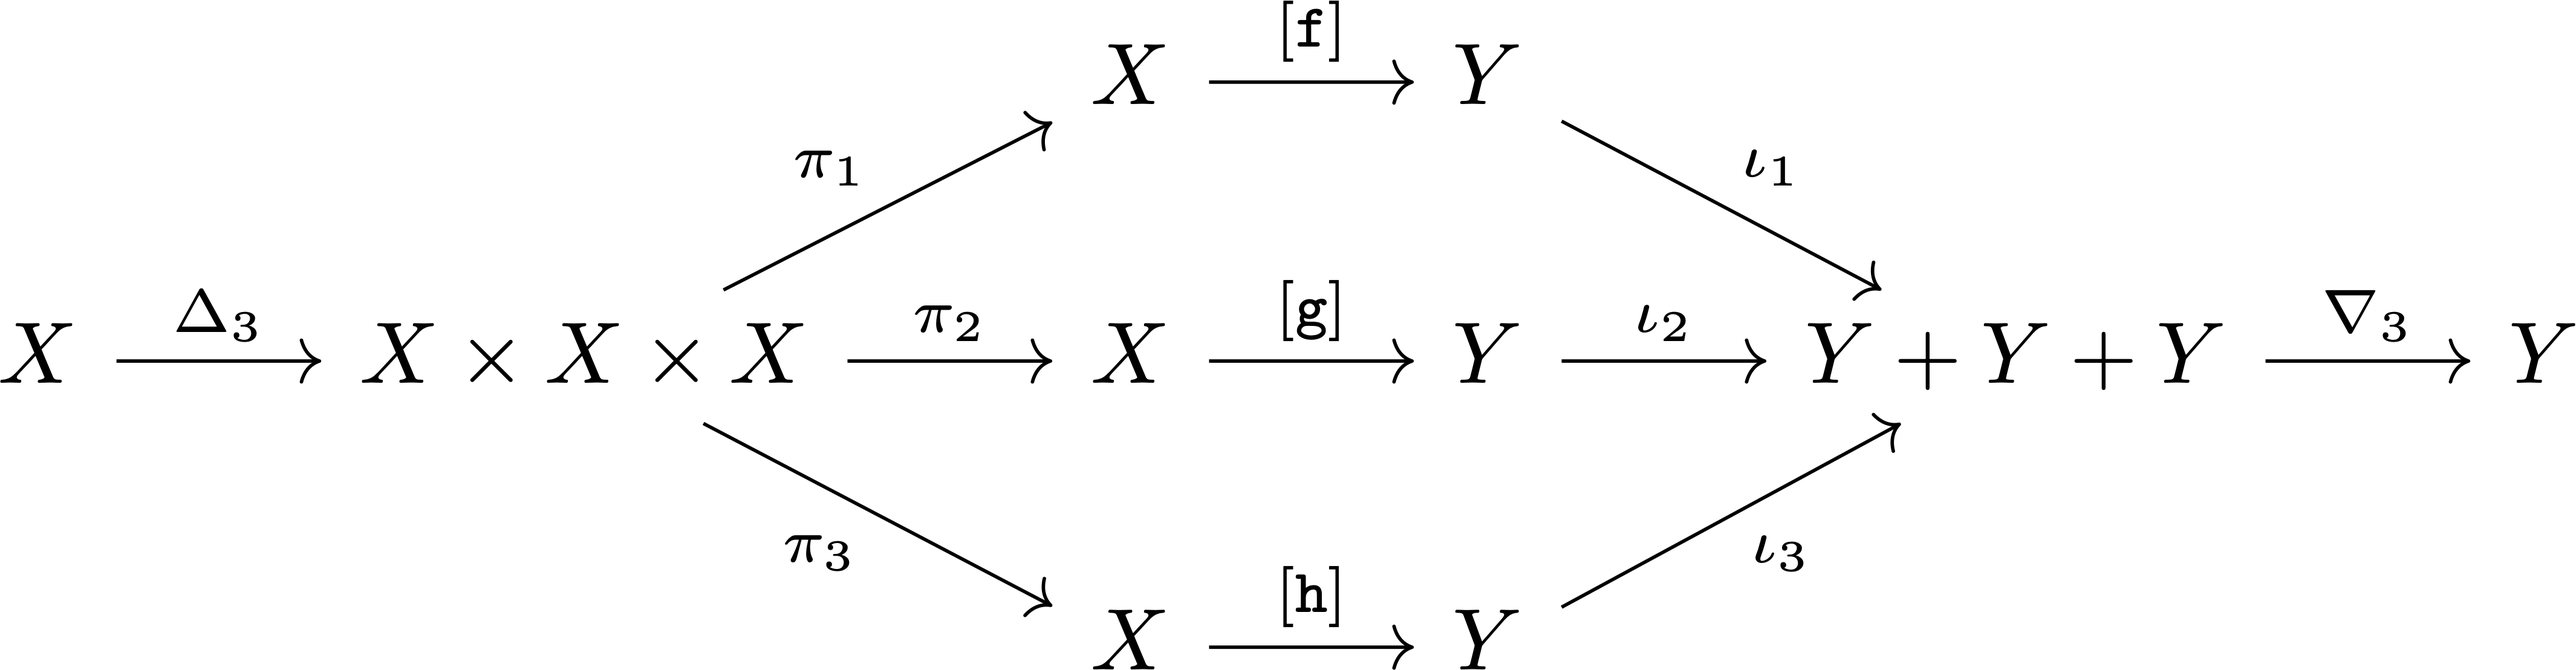
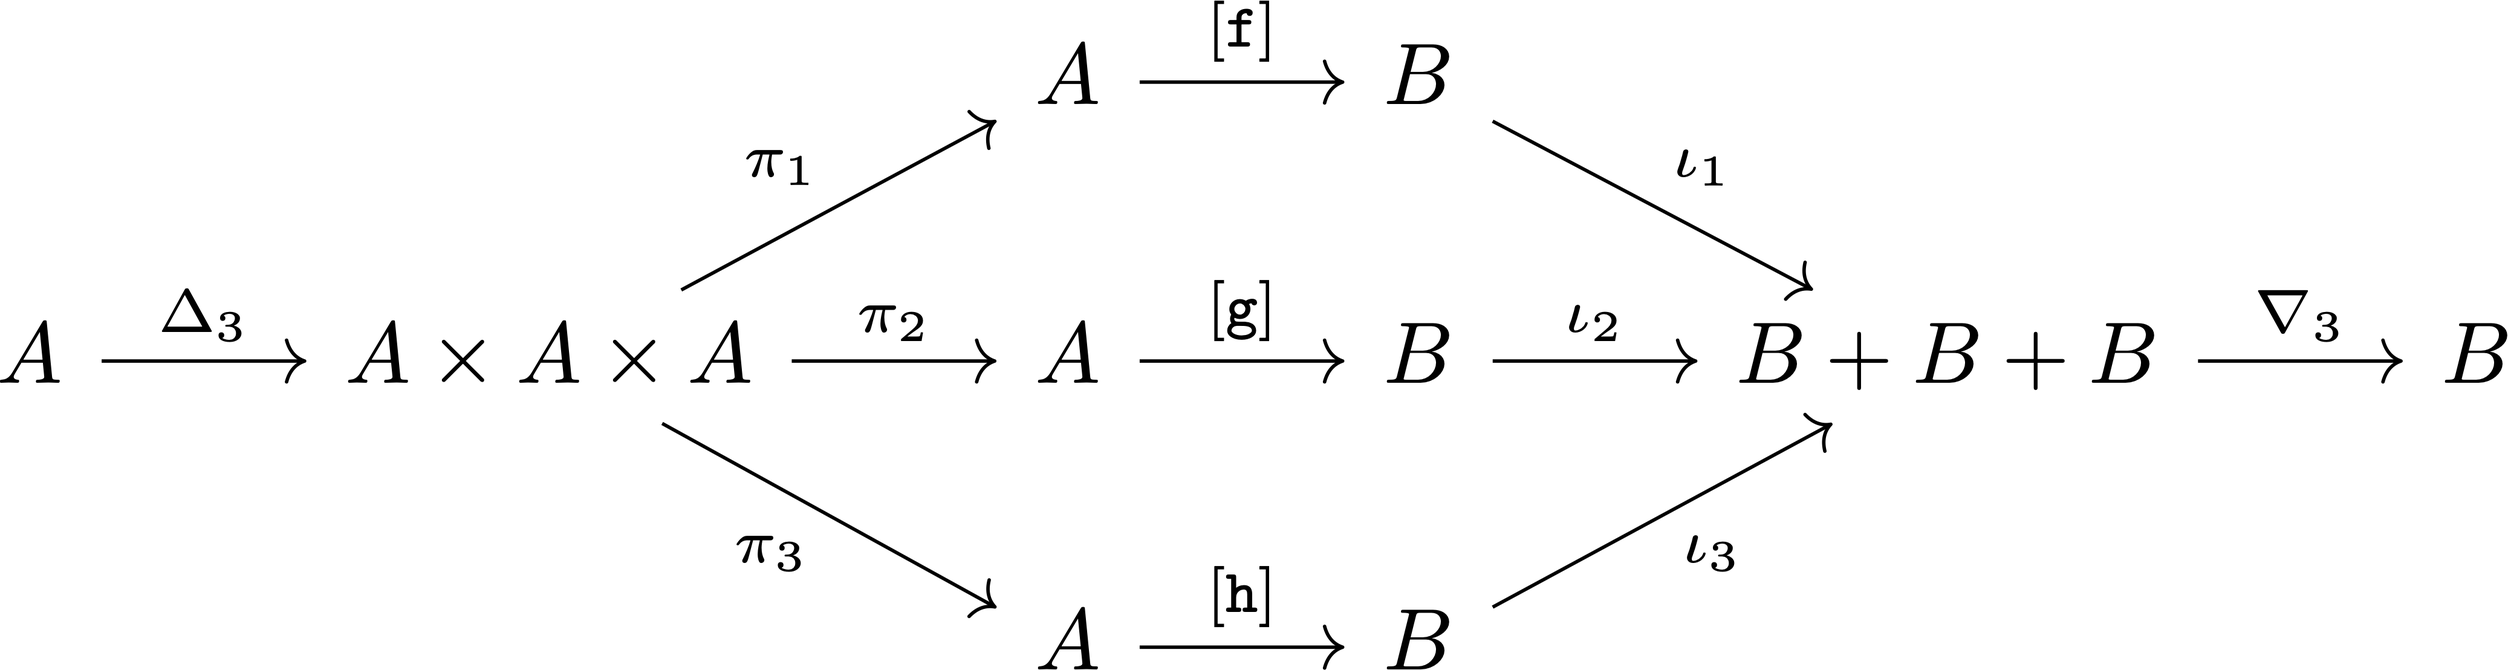
updated site

diff --git a/index.html b/index.html
@@ -1810,6 +1810,11 @@ The algebra underlying most type theories operate as a <a href="https://en.wikip
 <hr>
 <div class="exampleblock">
 <div class="content">
+<div class="imageblock text-center">
+<div class="content">
+<img src="./images/language/delta-nabla.png" alt="delta nabla" width="650">
+</div>
+</div>
 <div class="paragraph">
 <p>mm-ADT composes unary functions via <code>*</code> and <code>+</code>. <code>n</code>-ary functions are encoded as <code>poly</code>-coupled unary functions with the \$\Delta\$-projection (delta) serving to <strong>copy</strong> (clone via <code>,</code>) or <strong>split</strong> (partition via <code>|</code>) a single <code>obj</code>.</p>
 </div>
@@ -1845,8 +1850,8 @@ mmlang&gt; <span style="background-color:hsla(0,100%,50%,0.05)"><span style="col
 <div class="paragraph">
 <p>\[
 \begin{split}
-\nabla_n&amp;: \overbrace{A \times \ldots \times A}^{n-\text{times}} &amp;\rightarrow A \\
-\nabla_n&amp;([a,\ldots,a]) &amp;= a
+\nabla_n&amp;: \overbrace{B \times \ldots \times B}^{n-\text{times}} &amp;\rightarrow B \\
+\nabla_n&amp;([b,\ldots,b]) &amp;= b
 \end{split}
 \]</p>
 </div>
@@ -1867,11 +1872,6 @@ mmlang&gt; <span style="background-color:hsla(0,100%,50%,0.05)"><span style="col
 ==&gt;<span style="background-color:hsla(0,100%,50%,0.05)"><span style="color:#710">'</span><span style="color:#D20">a</span><span style="color:#710">'</span></span>
 mmlang&gt; <span style="background-color:hsla(0,100%,50%,0.05)"><span style="color:#710">'</span><span style="color:#D20">a</span><span style="color:#710">'</span></span>-&lt;[_+<span style="background-color:hsla(0,100%,50%,0.05)"><span style="color:#710">'</span><span style="color:#D20">b</span><span style="color:#710">'</span></span>|_+<span style="background-color:hsla(0,100%,50%,0.05)"><span style="color:#710">'</span><span style="color:#D20">c</span><span style="color:#710">'</span></span>]&gt;-
 ==&gt;<span style="background-color:hsla(0,100%,50%,0.05)"><span style="color:#710">'</span><span style="color:#D20">ab</span><span style="color:#710">'</span></span></code></pre>
-</div>
-</div>
-<div class="imageblock text-center">
-<div class="content">
-<img src="./images/language/delta-nabla.png" alt="delta nabla" width="600">
 </div>
 </div>
 </div>

diff --git a/language.html b/language.html
@@ -1536,6 +1536,11 @@ The algebra underlying most type theories operate as a <a href="https://en.wikip
 <hr>
 <div class="exampleblock">
 <div class="content">
+<div class="imageblock text-center">
+<div class="content">
+<img src="./images/language/delta-nabla.png" alt="delta nabla" width="650">
+</div>
+</div>
 <div class="paragraph">
 <p>mm-ADT composes unary functions via <code>*</code> and <code>+</code>. <code>n</code>-ary functions are encoded as <code>poly</code>-coupled unary functions with the \$\Delta\$-projection (delta) serving to <strong>copy</strong> (clone via <code>,</code>) or <strong>split</strong> (partition via <code>|</code>) a single <code>obj</code>.</p>
 </div>
@@ -1571,8 +1576,8 @@ mmlang&gt; 'a'-&lt;[_+'b'|_+'c']
 <div class="paragraph">
 <p>\[
 \begin{split}
-\nabla_n&amp;: \overbrace{A \times \ldots \times A}^{n-\text{times}} &amp;\rightarrow A \\
-\nabla_n&amp;([a,\ldots,a]) &amp;= a
+\nabla_n&amp;: \overbrace{B \times \ldots \times B}^{n-\text{times}} &amp;\rightarrow B \\
+\nabla_n&amp;([b,\ldots,b]) &amp;= b
 \end{split}
 \]</p>
 </div>
@@ -1593,11 +1598,6 @@ mmlang&gt; 'a'-&lt;[_+'b',_+'c']&gt;-
 ==&gt;'a'
 mmlang&gt; 'a'-&lt;[_+'b'|_+'c']&gt;-
 ==&gt;'ab'</code></pre>
-</div>
-</div>
-<div class="imageblock text-center">
-<div class="content">
-<img src="./images/language/delta-nabla.png" alt="delta nabla" width="600">
 </div>
 </div>
 </div>
@@ -1872,7 +1872,7 @@ mmlang&gt; 1&lt;[plus,1];[mult,2]&gt;
 </div>
 <div id="footer">
 <div id="footer-text">
-Last updated 2020-05-18 00:24:19 -0600
+Last updated 2020-05-18 00:32:39 -0600
 </div>
 </div>
 </body>
